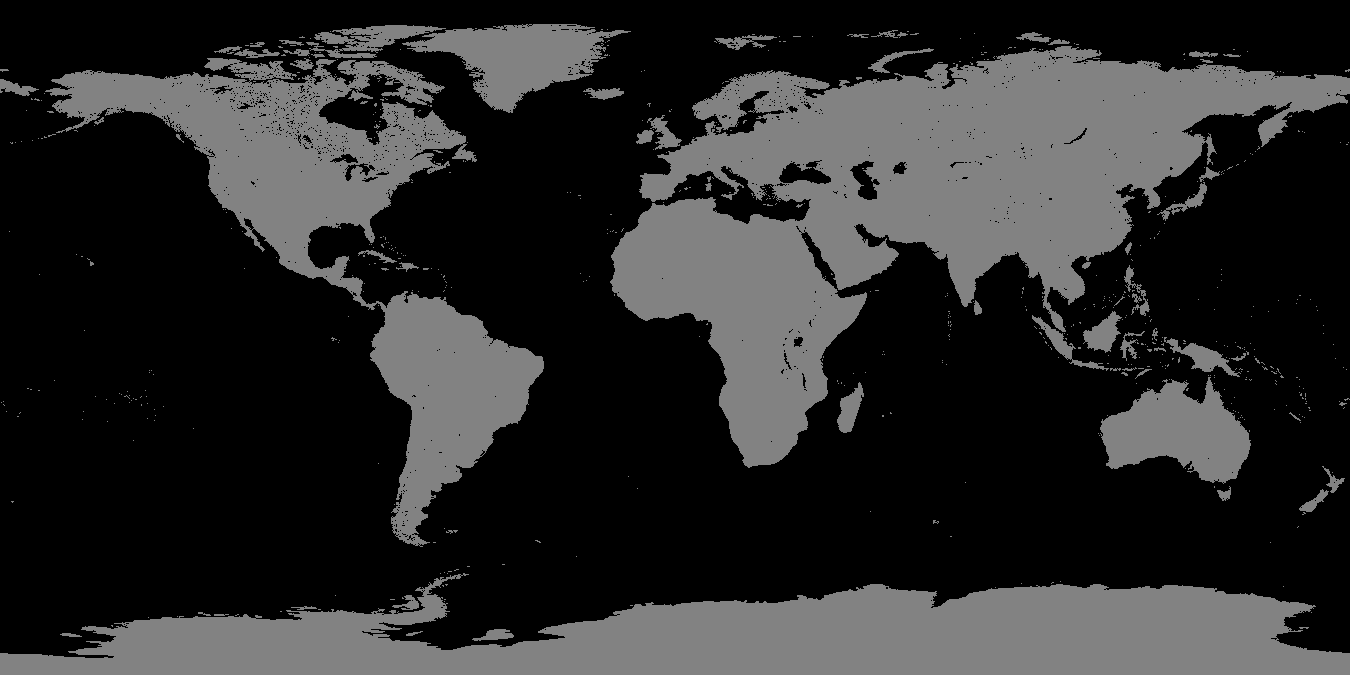
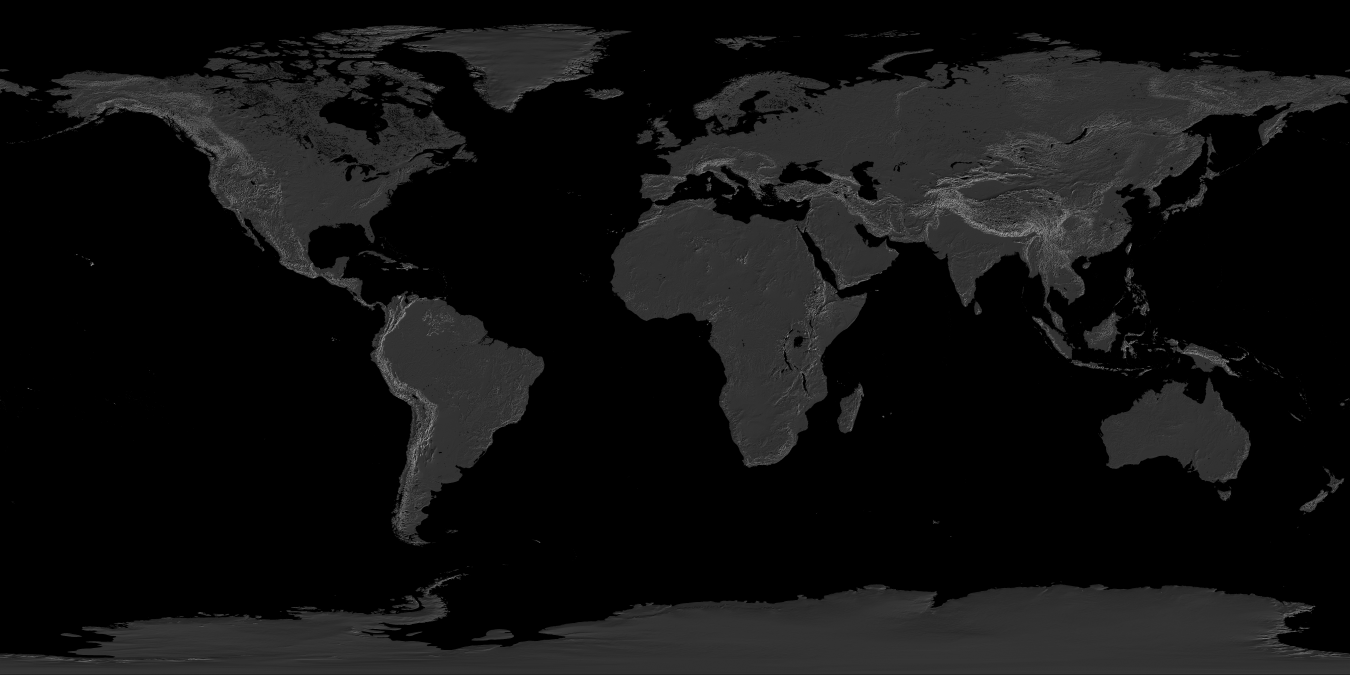
Added terrain textures

diff --git a/src/client/map.cpp b/src/client/map.cpp
@@ -28,6 +28,10 @@ Map::Map(const World& _world) : world(_world) {
     if (glewIsSupported("GL_VERSION_2_1")) {
         water_tex = &g_texture_manager->load_texture(Path::get("water_tex.png"), GL_REPEAT, GL_NEAREST_MIPMAP_LINEAR, GL_LINEAR);
         noise_tex = &g_texture_manager->load_texture(Path::get("noise_tex.png"), GL_REPEAT, GL_NEAREST_MIPMAP_LINEAR, GL_LINEAR);
+        topo_tex = &g_texture_manager->load_texture(Path::get("map_topo.png"), GL_REPEAT, GL_NEAREST_MIPMAP_LINEAR, GL_LINEAR);
+        terrain_tex = &g_texture_manager->load_texture(Path::get("map_ter_indx.png"));
+        terrain_sheet = new UnifiedRender::TextureArray(Path::get("terrain_sheet.png"), 4, 4);
+        terrain_sheet->to_opengl();
         map_quad = new UnifiedRender::OpenGl::PrimitiveSquare(0, 0, world.width, world.height);
 
         {
@@ -60,7 +64,7 @@ Map::Map(const World& _world) : world(_world) {
             g = (tile.province_id / 256) % 256;
             b = tile.owner_id % 256;
             a = (tile.owner_id / 256) % 256;
-            a = tile.elevation == 0 ? 255 : a;
+            // a = tile.elevation == 0 ? 255 : a;
             div_topo_tex->buffer[i] = (a << 24) | (b << 16) | (g << 8) | (r);
             if (tile.owner_id < world.nations.size()) {
                 const Nation* owner = world.nations.at(tile.owner_id);
@@ -178,7 +182,7 @@ void Map::update(World& world) {
             g = (tile.province_id / 256) % 256;
             b = tile.owner_id % 256;
             a = (tile.owner_id / 256) % 256;
-            a = tile.elevation == 0 ? 255 : a;
+            // a = tile.elevation == 0 ? 255 : a;
             glColor4ui(r, g, b, a);
             glVertex2i(coords.first, coords.second);
         }
@@ -198,16 +202,16 @@ void Map::draw(Camera& cam, const int width, const int height) {
     glm::mat4 view, projection;
 
     // Map should have no "model" matrix since it's always static
-    /*map_shader->use();
+    map_shader->use();
     view = cam.get_view();
     map_shader->set_uniform("view", view);
     projection = cam.get_projection();
     map_shader->set_uniform("projection", projection);
     map_shader->set_uniform("map_size", (float)world.width, (float)world.height);
-    map_shader->set_uniform("terrain_texture", 0);
+    map_shader->set_uniform("tile_map", 0);
     glActiveTexture(GL_TEXTURE0);
     glBindTexture(GL_TEXTURE_2D, div_topo_tex->gl_tex_num);
-    map_shader->set_uniform("terrain_sheet", 1);
+    map_shader->set_uniform("tile_sheet", 1);
     glActiveTexture(GL_TEXTURE1);
     glBindTexture(GL_TEXTURE_2D, div_sheet_tex->gl_tex_num);
     map_shader->set_uniform("water_texture", 2);
@@ -216,7 +220,16 @@ void Map::draw(Camera& cam, const int width, const int height) {
     map_shader->set_uniform("noise_texture", 3);
     glActiveTexture(GL_TEXTURE3);
     glBindTexture(GL_TEXTURE_2D, noise_tex->gl_tex_num);
-    map_quad->draw();*/
+    map_shader->set_uniform("topo_texture", 4);
+    glActiveTexture(GL_TEXTURE4);
+    glBindTexture(GL_TEXTURE_2D, topo_tex->gl_tex_num);
+    map_shader->set_uniform("terrain_texture", 5);
+    glActiveTexture(GL_TEXTURE5);
+    glBindTexture(GL_TEXTURE_2D, terrain_tex->gl_tex_num);
+    map_shader->set_uniform("terrain_sheet", 6);
+    glActiveTexture(GL_TEXTURE6);
+    glBindTexture(GL_TEXTURE_2D_ARRAY, terrain_sheet->gl_tex_num);
+    map_quad->draw();
 
     // TODO: We need to better this
     obj_shader->use();

diff --git a/src/client/render/texture_array.cpp b/src/client/render/texture_array.cpp
@@ -1,0 +1,39 @@
+#include "texture_array.hpp"
+
+#include "print.hpp"
+
+UnifiedRender::TextureArray::TextureArray(std::string path, size_t _tiles_x, size_t _tiles_y)
+    : BinaryImage(path), tiles_x(_tiles_x), tiles_y(_tiles_y) {}
+
+void UnifiedRender::TextureArray::to_opengl(GLuint wrapp, GLuint min_filter, GLuint mag_filter) {
+    glGenTextures(1, &gl_tex_num);
+    glBindTexture(GL_TEXTURE_2D_ARRAY, gl_tex_num);
+
+    // set up texture handle parameters
+    // glTexParameteri(GL_TEXTURE_2D_ARRAY, GL_TEXTURE_BASE_LEVEL, 0);  // !single image!
+    // glTexParameteri(GL_TEXTURE_2D_ARRAY, GL_TEXTURE_MAX_LEVEL, 1);   // !single image! mat->mips == 1
+    glTexParameteri(GL_TEXTURE_2D_ARRAY, GL_TEXTURE_MIN_FILTER, GL_LINEAR);
+    glTexParameteri(GL_TEXTURE_2D_ARRAY, GL_TEXTURE_MAG_FILTER, GL_LINEAR);
+    glTexParameteri(GL_TEXTURE_2D_ARRAY, GL_TEXTURE_WRAP_S, GL_REPEAT);
+    glTexParameteri(GL_TEXTURE_2D_ARRAY, GL_TEXTURE_WRAP_T, GL_REPEAT);
+
+    size_t p_dx = width / tiles_x;   // pixels of each tile in x
+    size_t p_dy = height / tiles_y;  // pixels of each tile in y
+    glTexImage3D(GL_TEXTURE_2D_ARRAY, 0, GL_RGBA, p_dx, p_dy, 16, 0, GL_RGBA, GL_UNSIGNED_BYTE, NULL);
+
+
+    glPixelStorei(GL_UNPACK_ROW_LENGTH, width);
+    glPixelStorei(GL_UNPACK_IMAGE_HEIGHT, height);
+
+    for (size_t x = 0; x < tiles_x; x++) {
+        for (size_t y = 0; y < tiles_y; y++) {
+            glTexSubImage3D(GL_TEXTURE_2D_ARRAY, 0, 0, 0, x * tiles_x + y, p_dx, p_dy, 1, GL_RGBA, GL_UNSIGNED_BYTE, buffer + (x * p_dy * width + y * p_dx));
+        }
+    }
+    // glGenerateMipmap(GL_TEXTURE_2D_ARRAY);
+
+    // unbind texture handle
+    glBindTexture(GL_TEXTURE_2D_ARRAY, 0);
+    glPixelStorei(GL_UNPACK_ROW_LENGTH, 0);
+    glPixelStorei(GL_UNPACK_IMAGE_HEIGHT, 0);
+}

diff --git a/src/client/map.hpp b/src/client/map.hpp
@@ -18,6 +18,7 @@
 #include "camera.hpp"
 #include "render/primitive.hpp"
 #include "render/shader.hpp"
+#include "render/texture_array.hpp"
 
 class ProvinceShape;
 class Map {
@@ -38,6 +39,10 @@ public:
     UnifiedRender::Texture* div_sheet_tex;
     const UnifiedRender::Texture* water_tex;
     const UnifiedRender::Texture* noise_tex;
+    const UnifiedRender::Texture* topo_tex;
+    const UnifiedRender::Texture* terrain_tex;
+    // const UnifiedRender::Texture* terrain_sheet;
+    UnifiedRender::TextureArray* terrain_sheet;
     UnifiedRender::OpenGl::PrimitiveSquare* map_quad;
     UnifiedRender::OpenGl::Program* map_shader,* obj_shader;
     const UnifiedRender::Texture* overlay_tex;

diff --git a/src/client/camera.hpp b/src/client/camera.hpp
@@ -99,7 +99,7 @@ public:
         glm::vec3 ray_direction = world_space_far - world_space_near;
 
         float distance = 0.f;
-        bool intersection = glm::intersectRayPlane(world_space_near, ray_direction, glm::vec3(0, 0, 0), glm::vec3(0, 0, 1), distance);
+        glm::intersectRayPlane(world_space_near, ray_direction, glm::vec3(0, 0, 0), glm::vec3(0, 0, 1), distance);
             
         glm::vec3 intersection_point = world_space_near + ray_direction * distance;
         return std::pair<float, float> (intersection_point.x, intersection_point.y);

diff --git a/src/client/render/texture_array.hpp b/src/client/render/texture_array.hpp
@@ -1,0 +1,25 @@
+#ifndef TEXTURE_ARRAY_H
+#define TEXTURE_ARRAY_H
+
+#include <GL/glew.h>
+#include <string>
+#include <vector>
+
+#include "binary_image.hpp"
+
+namespace UnifiedRender {
+class TextureArray : public BinaryImage {
+   public:
+    TextureArray(std::string path, size_t _tiles_x, size_t _tiles_y);
+
+    GLuint gl_tex_num;
+    void to_opengl(GLuint wrapp = GL_REPEAT, GLuint min_filter = GL_NEAREST, GLuint mag_filter = GL_NEAREST);
+
+    size_t layers;
+	size_t tiles_x;
+	size_t tiles_y;
+};
+
+};
+
+#endif

diff --git a/src/client/main.cpp b/src/client/main.cpp
@@ -44,7 +44,7 @@ int main(int argc, char** argv) {
 #endif
     
 #ifndef UNIT_TEST
-    Path::add_path("test");
+    // Path::add_path("test");
     Path::add_path("base_game");
     
     client_main(argc, argv);

diff --git a/src/server/main.cpp b/src/server/main.cpp
@@ -48,7 +48,7 @@ int main(int argc, char** argv) {
     textdomain("main");
 #endif
 
-    Path::add_path("test");
+    // Path::add_path("test");
     Path::add_path("base_game");
 
 #ifndef UNIT_TEST
